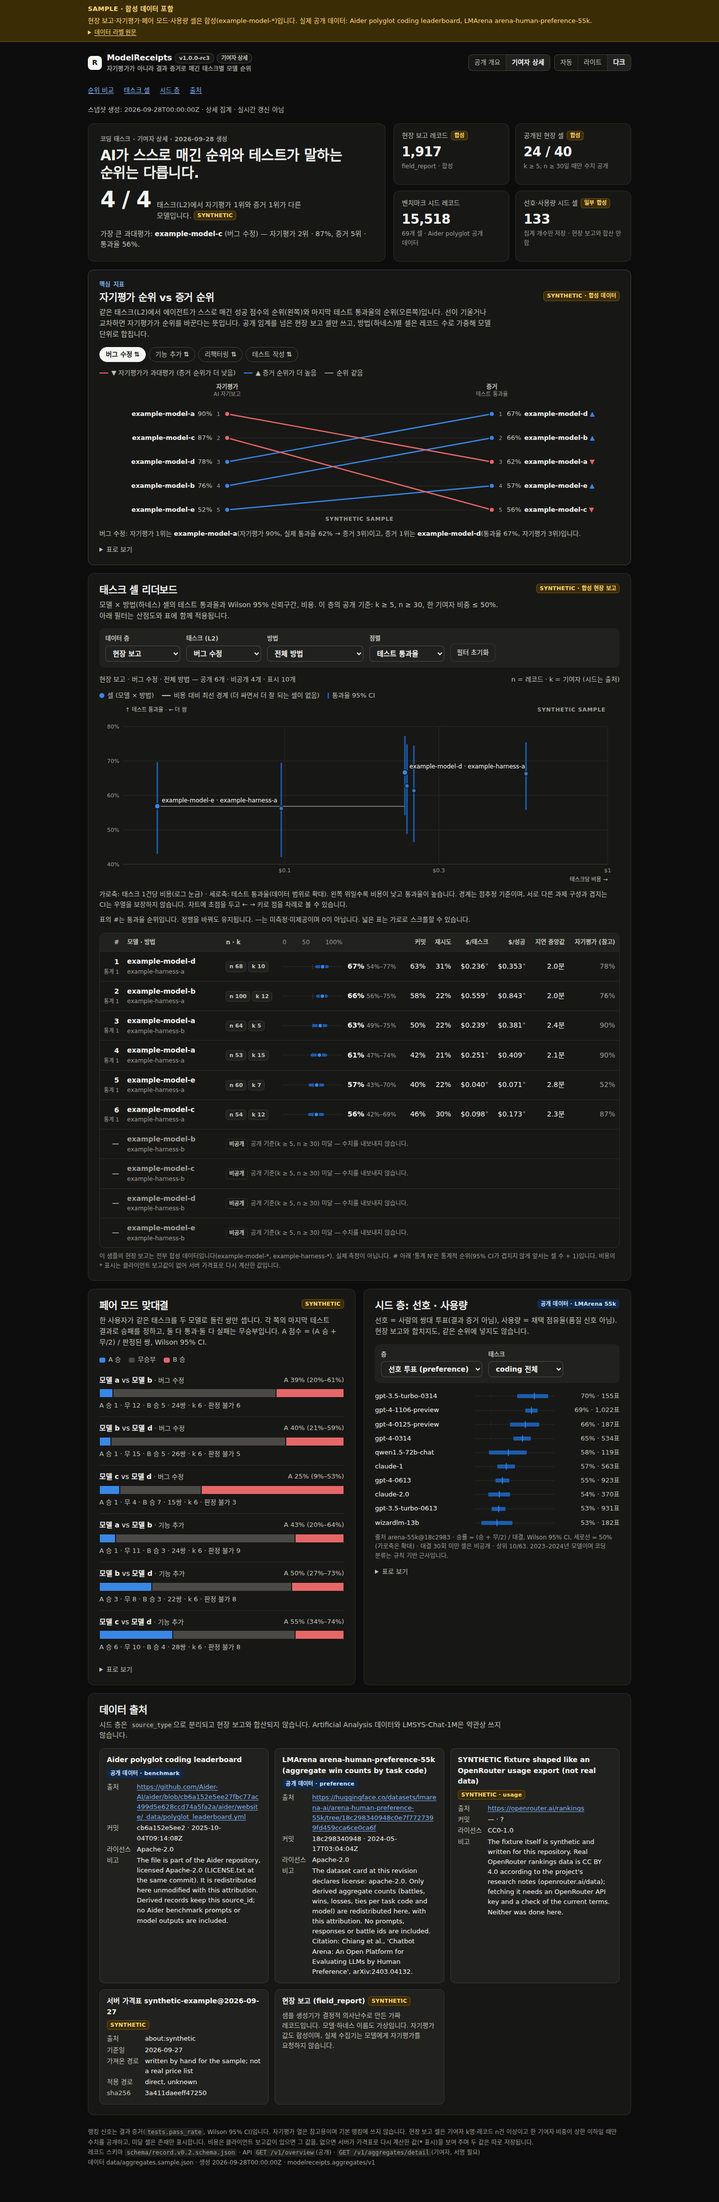
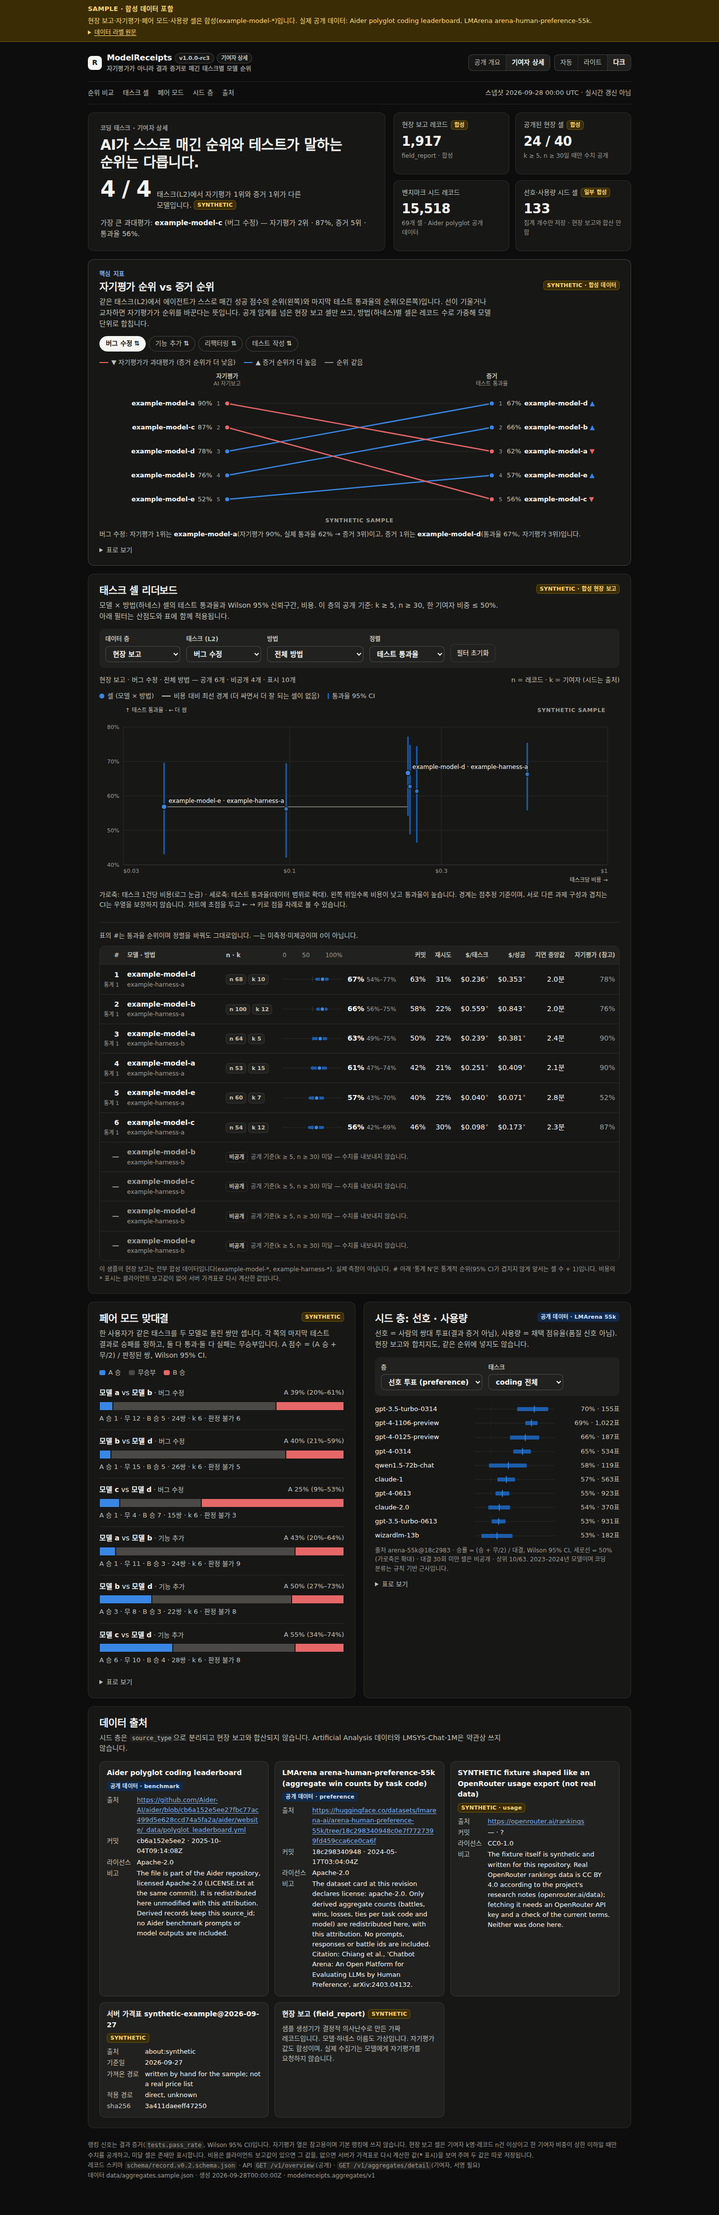
Refine dashboard for 1.0.0-rc3 (Opus stage)
Review of the Codex stage (0c31c5c) and fixes on top of it:
- merge section links and snapshot time into one toolbar row; add the
  pair-mode link and hide links to sections the current view hides;
  show the snapshot as "YYYY-MM-DD HH:MM UTC" in <time>
- neutral strip while loading (yellow stays reserved for synthetic data);
  keep the view pill hidden until data arrives
- error state: aligned action row, no self-referencing sample link,
  readable timeout / non-JSON messages
- empty aggregate: no raw "?" placeholders, "데이터 없음" layer option,
  benchmark KPI no longer claims a source when there are no cells
- scatter: snap the log cost domain to 1-3-10 ticks so both ends are
  labelled (phone gets 4 ticks); edge labels anchored inward
- slope: reserve a row for the SYNTHETIC watermark
- phone cards: two metric columns from 360px (6 -> 3 lines per card)
- table wrappers are focusable scroll regions only while they overflow
- check-ui.mjs: check / keyviews:NAME modes, hidden scrollbars, new
  assertions for each fix; refresh screenshots and add Codex -> Opus
  key-view pairs

diff --git a/dashboard/index.html b/dashboard/index.html
@@ -89,7 +89,7 @@ h1, h2, h3, p, .cap, .note, .caption { word-break: keep-all; overflow-wrap: anyw
 /* ---------- synthetic strip ---------- */
 .strip { border-bottom: 1px solid var(--syn-line); background: var(--syn-bg); color: var(--syn-ink); }
 .strip.live { background: var(--pub-bg); color: var(--pub-ink); border-color: var(--border); }
-.strip.error { background: var(--surface-2); color: var(--ink); border-color: var(--border); }
+.strip.error, .strip.pending { background: var(--surface-2); color: var(--ink); border-color: var(--border); }
 .strip .inner { max-width: 1120px; margin: 0 auto; padding: 8px 16px; display: flex; flex-wrap: wrap; gap: 4px 12px; align-items: baseline; font-size: var(--fs-sm); }
 .strip b { font-weight: 700; letter-spacing: .02em; }
 .strip details { font-size: var(--fs-xs); }
@@ -281,11 +281,18 @@ tr.locked td { color: var(--muted); }
   .card, .hero-main, .kpi { box-shadow: none; break-inside: avoid; }
 }
 /* rc3: readable narrow layouts and explicit navigation/state */
-.section-nav { display:flex; flex-wrap:wrap; gap:8px 20px; padding:14px 0 0; }
-.section-nav a { font-size:13px; padding:6px 0; }
+/* Opus: section links and snapshot time share one quiet toolbar row under the header */
+.toolbar { display:flex; flex-wrap:wrap; align-items:center; justify-content:space-between; gap:6px 16px; margin-top:12px; padding:6px 0; border-top:1px solid var(--border); border-bottom:1px solid var(--border); }
+.section-nav { display:flex; flex-wrap:wrap; gap:2px; margin:0 -8px; }
+.section-nav a { font-size:var(--fs-sm); color:var(--ink-2); text-decoration:none; padding:6px 8px; border-radius:6px; }
+.section-nav a:hover { color:var(--ink); background:var(--surface-2); }
 section[id] { scroll-margin-top:16px; }
-.meta-line, .results-line { color:var(--ink-2); font-size:13px; }
+.meta-line, .results-line { color:var(--ink-2); font-size:var(--fs-sm); margin:0; }
+.meta-line time { font-variant-numeric:tabular-nums; }
 .results-line { display:flex; flex-wrap:wrap; gap:8px 16px; justify-content:space-between; margin:12px 0; }
+.error-actions { display:flex; flex-wrap:wrap; align-items:center; gap:8px 16px; margin:4px 0 12px; }
+.error-actions .more { margin:0; }
+.board-intro { margin-top:24px; padding-top:16px; border-top:1px solid var(--grid); }
 .filters { padding:12px; background:var(--surface-2); border-radius:10px; }
 .filters .more { margin:0; min-height:36px; }
 .loading-bars { display:grid; grid-template-columns:2fr 1fr 1fr; gap:12px; margin-top:20px; }
@@ -311,11 +318,18 @@ section[id] { scroll-margin-top:16px; }
   .tip { min-width:0; max-width:min(280px,100%); }
   .loading-bars { grid-template-columns:1fr; }
 }
+@media (min-width:360px) and (max-width:640px) {
+  #board tr { grid-template-columns:24px minmax(0,1fr) minmax(0,1fr); column-gap:16px; }
+  #board td.model, #board td.nk, #board td.ci, #board td.lockrow { grid-column:2 / -1; }
+  #board td.opt:nth-child(odd) { grid-column:2; }
+  #board td.opt:nth-child(even) { grid-column:3; }
+}
+@media print { .toolbar { display:none; } }
 </style>
 </head>
 <body>
 <a class="skip" href="#main">본문으로 건너뛰기</a>
-<div class="strip" id="strip" role="note" aria-live="polite">
+<div class="strip pending" id="strip" role="note" aria-live="polite">
   <div class="inner"><b id="strip-title">데이터를 불러오는 중…</b><span id="strip-text"></span>
     <details id="strip-more" hidden><summary>데이터 라벨 원문</summary><p id="strip-label"></p></details>
   </div>
@@ -325,7 +339,7 @@ section[id] { scroll-margin-top:16px; }
     <div class="brand">
       <div class="logo" aria-hidden="true">R</div>
       <div>
-        <div class="brand-name">ModelReceipts <span class="pill">v1.0.0-rc3</span> <span class="pill" id="view-pill"></span></div>
+        <div class="brand-name">ModelReceipts <span class="pill">v1.0.0-rc3</span> <span class="pill" id="view-pill" hidden></span></div>
         <div class="eyebrow">자기평가가 아니라 결과 증거로 매긴 태스크별 모델 순위</div>
       </div>
     </div>
@@ -352,17 +366,19 @@ section[id] { scroll-margin-top:16px; }
   <section class="card" id="load-error" role="alert" hidden>
     <h2>집계 데이터를 불러오지 못했습니다</h2>
     <p class="sub" id="load-error-msg"></p>
-    <button type="button" class="more" id="retry-load">다시 불러오기</button> <a href="?view=detail">샘플 보기</a>
+    <div class="error-actions"><button type="button" class="more" id="retry-load">다시 불러오기</button><a id="error-sample" href="?view=detail">합성 샘플로 보기</a></div>
     <details><summary>로컬 실행 안내</summary><p class="sub">브라우저는 <code>file://</code>에서 JSON을 읽지 못합니다. 저장소 루트에서
       <code>PYTHONPATH=server python3 -m modelreceipts_server serve</code> 후
       <code>http://127.0.0.1:8787/dashboard/</code>(샘플) 또는 <code>http://127.0.0.1:8787/</code>(서버 집계)를 여세요.</p></details>
   </section>
 
   <div id="content" hidden>
-  <nav class="section-nav" aria-label="대시보드 섹션">
-    <a href="#cmp-card">순위 비교</a><a href="#cells-card">태스크 셀</a><a href="#seed-card">시드 층</a><a href="#sources-card">출처</a>
-  </nav>
-  <p class="meta-line" id="snapshot-meta"></p>
+  <div class="toolbar">
+    <nav class="section-nav" aria-label="대시보드 섹션">
+      <a href="#cmp-card">순위 비교</a><a href="#cells-card">태스크 셀</a><a href="#pair-card">페어 모드</a><a href="#seed-card">시드 층</a><a href="#sources-card">출처</a>
+    </nav>
+    <p class="meta-line" id="snapshot-meta"></p>
+  </div>
   <!-- hero -->
   <section class="hero" aria-labelledby="hero-title">
     <div class="hero-main">
@@ -449,9 +465,9 @@ section[id] { scroll-margin-top:16px; }
     <p class="sr-only" id="scatter-live" aria-live="polite"></p>
     <p class="empty" id="scatter-empty" hidden></p>
 
-    <p class="caption">표의 #는 통과율 순위입니다. 정렬을 바꿔도 유지됩니다. —는 미측정·미제공이며 0이 아닙니다. 넓은 표는 가로로 스크롤할 수 있습니다.</p>
+    <p class="caption board-intro">표의 #는 통과율 순위이며 정렬을 바꿔도 그대로입니다. —는 미측정·미제공이며 0이 아닙니다.</p>
     <div class="empty" id="board-empty" hidden><b id="board-empty-title">조건에 맞는 셀이 없습니다.</b><p id="board-empty-help">태스크나 방법을 전체로 바꾸세요. 공개 기준 미달 셀은 수치 없이 표시됩니다.</p><a id="empty-sample" href="?view=detail" hidden>합성 샘플 둘러보기</a><button type="button" class="more" id="empty-reset">필터 초기화</button></div>
-    <div class="table-scroll" id="board-scroll" style="margin-top:16px">
+    <div class="table-scroll" id="board-scroll" style="margin-top:10px">
       <table id="board"><caption class="sr-only">태스크 셀 리더보드</caption><thead><tr>
         <th scope="col" class="num" title="순위 · 통계적 순위(CI가 겹치지 않게 앞서는 셀 수 + 1)">#</th>
         <th scope="col">모델 · 방법</th>
@@ -555,6 +571,7 @@ section[id] { scroll-margin-top:16px; }
   const usd = v => v == null ? "—" : "$" + (v < 0.01 ? v.toFixed(4) : v < 1 ? v.toFixed(3) : v.toFixed(2));
   const secs = ms => ms == null ? "—" : (ms >= 60000 ? (ms / 60000).toFixed(1) + "분" : (ms / 1000).toFixed(0) + "초");
   const num = v => v == null ? "—" : Number(v).toLocaleString("ko-KR");
+  const utc = iso => { const d = new Date(iso); return isNaN(d) ? null : d.toISOString().slice(0, 16).replace("T", " ") + " UTC"; };
   const el = (tag, props = {}, text) => { const e = document.createElement(tag); Object.assign(e, props); if (text != null) e.textContent = text; return e; };
   const SVGNS = "http://www.w3.org/2000/svg";
   const svgEl = (tag, attrs = {}, text) => { const e = document.createElementNS(SVGNS, tag); for (const k in attrs) e.setAttribute(k, attrs[k]); if (text != null) e.textContent = text; return e; };
@@ -590,6 +607,8 @@ section[id] { scroll-margin-top:16px; }
     if (a.dataset.view === wantView) a.setAttribute("aria-current", "page");
   });
   document.getElementById("retry-load").addEventListener("click", () => location.reload());
+  // the sample link is only a way out when the failing request was not the sample itself
+  document.getElementById("error-sample").hidden = !params.get("data") && wantView === "detail";
   const controller = new AbortController();
   const loadTimeout = setTimeout(() => controller.abort(), 15000);
   fetch(dataUrl, { cache: "no-store", signal: controller.signal })
@@ -600,7 +619,8 @@ section[id] { scroll-margin-top:16px; }
       document.getElementById("strip").className = "strip error";
       document.getElementById("strip-title").textContent = "불러오기 실패";
       document.getElementById("strip-text").textContent = "아래 안내를 보세요.";
-      document.getElementById("load-error-msg").textContent = `${dataUrl} → ${err.message}`;
+      const why = err.name === "AbortError" ? "15초 안에 응답이 없어 요청을 멈췄습니다" : err instanceof SyntaxError ? "응답이 JSON이 아닙니다" : err.message;
+      document.getElementById("load-error-msg").textContent = `${dataUrl} → ${why}`;
       document.getElementById("load-error").hidden = false;
     }).finally(() => {
       clearTimeout(loadTimeout);
@@ -616,15 +636,16 @@ section[id] { scroll-margin-top:16px; }
     const synthSources = new Set(ds.synthetic_sources || []);
     const isSynthSource = id => synthSources.has(id) || /synthetic/i.test(id || "");
     const sve = new Map((agg.self_vs_evidence || []).map(t => [t.task, t.models]));
-    const thText = st => { const t = th[st]; return t ? `k ≥ ${t.min_contributors}, n ≥ ${t.min_records}` : "?"; };
-    document.getElementById("view-pill").textContent = isOverview ? "공개 개요" : agg.view === "detail" ? "기여자 상세" : "집계";
+    const thText = st => { const t = th[st]; return t ? `k ≥ ${t.min_contributors}, n ≥ ${t.min_records}` : "정보 없음"; };
+    const viewPill = document.getElementById("view-pill");
+    viewPill.textContent = isOverview ? "공개 개요" : agg.view === "detail" ? "기여자 상세" : "집계";
+    viewPill.hidden = false;
     document.getElementById("content").hidden = false;
 
-    document.getElementById("snapshot-meta").textContent = `스냅샷 생성: ${agg.generated_at || "제공되지 않음"} · ${isOverview ? "공개 개요" : "상세 집계"} · 실시간 갱신 아님`;
-    document.querySelectorAll(".table-scroll").forEach(box => {
-      box.tabIndex = 0; box.setAttribute("role", "region");
-      box.setAttribute("aria-label", `${box.querySelector("caption")?.textContent || "데이터 표"} · 가로 스크롤`);
-    });
+    const meta = document.getElementById("snapshot-meta"), when = utc(agg.generated_at);
+    meta.replaceChildren(document.createTextNode("스냅샷 "));
+    if (when) meta.append(el("time", { dateTime: agg.generated_at }, when)); else meta.append(document.createTextNode("생성 시각 없음"));
+    meta.append(document.createTextNode(" · 실시간 갱신 아님"));
     // ---------- provenance strip (always visible) ----------
     const strip = document.getElementById("strip");
     const realSeeds = (agg.sources || []).filter(s => !isSynthSource(s.source_id)).map(s => s.name.replace(/\s*\(.*\)$/, ""));
@@ -667,8 +688,7 @@ section[id] { scroll-margin-top:16px; }
     // ---------- hero ----------
     const totals = (agg.totals || {}).records_by_source_type || {};
     const seedCellTotal = Object.values((agg.totals || {}).seed_cells_by_source_type || {}).reduce((a, b) => a + b, 0);
-    const gen = (agg.generated_at || "").slice(0, 10);
-    document.getElementById("hero-eyebrow").textContent = `코딩 태스크 · ${isOverview ? "공개 개요" : "기여자 상세"}${gen ? " · " + gen + " 생성" : ""}`;
+    document.getElementById("hero-eyebrow").textContent = `코딩 태스크 · ${isOverview ? "공개 개요" : "기여자 상세"}`;
     const heroBig = document.getElementById("hero-big"), heroCap = document.getElementById("hero-cap"), heroIns = document.getElementById("hero-insight");
     if (cmpL2s.length) {
       document.getElementById("hero-title").textContent = "AI가 스스로 매긴 순위와 테스트가 말하는 순위는 다릅니다.";
@@ -688,12 +708,12 @@ section[id] { scroll-margin-top:16px; }
       heroBig.textContent = `${pubField}`;
       heroCap.replaceChildren(document.createTextNode(isOverview ? "개의 현장 보고 셀(L1 × 모델, 통과율 점추정)이 공개 기준을 넘었습니다. " : "개의 현장 보고 셀이 공개 기준을 넘었습니다. "));
       if (synthetic) heroCap.append(el("span", { className: "tag syn" }, "SYNTHETIC"));
-      heroIns.textContent = isOverview ? "자기평가 비교, 신뢰구간, 비용, 페어 모드는 기여자 상세 보기에서 열립니다." : `공개 기준: ${thText("field_report")}.`;
+      heroIns.textContent = isOverview ? "자기평가 비교, 신뢰구간, 비용, 페어 모드는 기여자 상세 보기에서 열립니다." : th.field_report ? `공개 기준: ${thText("field_report")}.` : "이 집계에는 공개 기준 정보가 없습니다.";
     }
     const kpis = [
       ["현장 보고 레코드", num(totals.field_report || 0), synthetic ? "field_report · 합성" : "field_report만 사용자 증거로 셈", synthetic],
-      ["공개된 현장 셀", `${fieldCells.length} / ${fieldCells.length + fieldSupp.length}`, `${thText("field_report")}일 때만 수치 공개`, synthetic],
-      ["벤치마크 시드 레코드", num(totals.benchmark || 0), `${cells.filter(c => c.source_type === "benchmark").length}개 셀 · Aider polyglot 공개 데이터`, false],
+      ["공개된 현장 셀", `${fieldCells.length} / ${fieldCells.length + fieldSupp.length}`, th.field_report ? `${thText("field_report")}일 때만 수치 공개` : "공개 기준 정보 없음", synthetic],
+      ["벤치마크 시드 레코드", num(totals.benchmark || 0), totals.benchmark ? `${cells.filter(c => c.source_type === "benchmark").length}개 셀 · Aider polyglot 공개 데이터` : "적재된 벤치마크 시드 없음", false],
       ["선호·사용량 시드 셀", num(seedCellTotal), "집계 개수만 저장 · 현장 보고와 합산 안 함", (agg.sources || []).some(s => isSynthSource(s.source_id) && s.source_type === "usage")],
     ];
     const kpiEl = document.getElementById("kpis");
@@ -735,7 +755,7 @@ section[id] { scroll-margin-top:16px; }
       chipsEl.querySelectorAll(".chip").forEach(b => b.setAttribute("aria-pressed", String(b.dataset.l2 === cmpL2)));
       const rows = ranked(cmpL2);
       const W = Math.max(240, slopeWrap.clientWidth), narrow = W < 560;
-      const rowH = narrow ? 40 : 48, top = 40, H = top + rows.length * rowH + 4;
+      const rowH = narrow ? 40 : 48, top = 40, H = top + rows.length * rowH + (synthetic ? 26 : 4);
       const labelW = narrow ? Math.min(92, W * .25) : 230, xL = labelW + 26, xR = W - labelW - 26;
       const nm = m => narrow ? shortModel(m) : m;
       slope.setAttribute("viewBox", `0 0 ${W} ${H}`); slope.setAttribute("height", H);
@@ -752,7 +772,7 @@ section[id] { scroll-margin-top:16px; }
         slope.append(svgEl("text", { x: xL - 14, y: yOf(i) + 4, "text-anchor": "end", "font-size": 11, fill: muted, "aria-hidden": "true" }, `${i}`));
         slope.append(svgEl("text", { x: xR + 14, y: yOf(i) + 4, "text-anchor": "start", "font-size": 11, fill: muted, "aria-hidden": "true" }, `${i}`));
       }
-      if (synthetic) slope.append(svgEl("text", { x: W / 2, y: H - 6, "text-anchor": "middle", "font-size": 11, "font-weight": 700, fill: muted, "letter-spacing": "0.08em", "aria-hidden": "true" }, "SYNTHETIC SAMPLE"));
+      if (synthetic) slope.append(svgEl("text", { x: W / 2, y: H - 4, "text-anchor": "middle", "font-size": 11, "font-weight": 700, fill: muted, "letter-spacing": "0.08em", "aria-hidden": "true" }, "SYNTHETIC SAMPLE"));
       const order = [...rows].sort((a, b) => Math.abs(a.evRank - a.selfRank) - Math.abs(b.evRank - b.selfRank));
       const groups = [];
       for (const r of order) {
@@ -814,6 +834,7 @@ section[id] { scroll-margin-top:16px; }
     let showAll = false;
     const srcTypes = [...new Set([...cells, ...suppressed].map(c => c.source_type))];
     for (const st of ["field_report", "benchmark"].filter(s => srcTypes.includes(s))) fSrc.append(el("option", { value: st }, st === "field_report" ? "현장 보고" : "벤치마크 시드"));
+    if (!srcTypes.length) fSrc.append(el("option", { value: "" }, "데이터 없음"));
     // client-reported cost first; otherwise the server's price-table recomputation (stored separately)
     const costTask = c => { const x = c.cost_usd_per_task || {}; return x.client_mean != null ? [x.client_mean, false] : [x.server_mean ?? null, x.server_mean != null]; };
     const costSuccess = c => c.cost_usd_per_success != null ? [c.cost_usd_per_success, false] : [c.server_cost_usd_per_success ?? null, c.server_cost_usd_per_success != null];
@@ -949,7 +970,10 @@ section[id] { scroll-margin-top:16px; }
       const W = Math.max(240, scWrap.clientWidth), narrow = W < 560, H = narrow ? 300 : 360;
       const m = { l: narrow ? 40 : 48, r: narrow ? 12 : 24, t: 44, b: 40 };
       const xs = pts.map(p => p.x);
-      const lx0 = Math.floor(Math.log10(Math.min(...xs)) * 2) / 2, lx1 = Math.ceil(Math.log10(Math.max(...xs)) * 2) / 2 + (Math.max(...xs) === Math.min(...xs) ? 0.5 : 0);
+      const TICK = [1, 3], L3 = Math.log10(3);
+      const snapDown = v => { const e = Math.floor(Math.log10(v) + 1e-9); return Math.log10(v) - e >= L3 - 1e-9 ? e + L3 : e; };
+      const snapUp = v => { const e = Math.floor(Math.log10(v) - 1e-9); return Math.log10(v) - e <= L3 + 1e-9 ? e + L3 : e + 1; };
+      const lx0 = snapDown(Math.min(...xs)), lx1 = Math.max(snapUp(Math.max(...xs)), lx0 + L3);
       const X = v => m.l + (Math.log10(v) - lx0) / (lx1 - lx0 || 1) * (W - m.l - m.r);
       const lows = pts.map(p => p.c.tests.ci95 ? p.c.tests.ci95[0] : p.y), highs = pts.map(p => p.c.tests.ci95 ? p.c.tests.ci95[1] : p.y);
       const y0 = Math.max(0, Math.floor(Math.min(...lows) * 10) / 10), y1 = Math.min(1, Math.ceil(Math.max(...highs) * 10) / 10);
@@ -963,11 +987,12 @@ section[id] { scroll-margin-top:16px; }
         scatter.append(svgEl("text", { x: m.l - 8, y: Y(v) + 4, "text-anchor": "end", "font-size": 11, fill: muted }, `${Math.round(v * 100)}%`));
       }
       for (let e = Math.floor(lx0); e <= Math.floor(lx1); e++) {
-        for (const mul of narrow ? [1] : [1, 3]) {
+        for (const mul of TICK) {
           const v = mul * 10 ** e, lv = Math.log10(v);
           if (lv < lx0 - 1e-9 || lv > lx1 + 1e-9) continue;
           scatter.append(svgEl("line", { x1: X(v), x2: X(v), y1: m.t, y2: H - m.b, stroke: grid, "stroke-width": 1 }));
-          scatter.append(svgEl("text", { x: X(v), y: H - m.b + 16, "text-anchor": "middle", "font-size": 11, fill: muted }, usd(v).replace(/\.?0+$/, "")));
+          const edge = lv <= lx0 + 1e-9 ? "start" : lv >= lx1 - 1e-9 ? "end" : "middle";   // edge labels point inward, clear of the % labels
+          scatter.append(svgEl("text", { x: X(v), y: H - m.b + 16, "text-anchor": edge, "font-size": 11, fill: muted }, usd(v).replace(/\.?0+$/, "")));
         }
       }
       scatter.append(svgEl("text", { x: W - m.r, y: H - 6, "text-anchor": "end", "font-size": 11, fill: ink2 }, "태스크당 비용 →"));
@@ -1041,14 +1066,21 @@ section[id] { scroll-margin-top:16px; }
       scatter.setAttribute("aria-label", `비용 대 테스트 통과율 산점도, 셀 ${pts.length}개, 비용 대비 최선 경계 ${frontier.length}개. 경계: ${frontier.map(p => `${p.c.model} ${p.c.method || ""} ${pct(p.y)} ${usd(p.x)}`).join("; ")}`);
     }
 
-    const renderCells = () => { renderScatter(); renderBoard(); };
+    // A table wrapper is a named, focusable region only while it actually overflows sideways.
+    const syncScrollRegions = () => document.querySelectorAll(".table-scroll").forEach(box => {
+      const scrolls = box.offsetParent !== null && box.scrollWidth > box.clientWidth + 1;
+      if (scrolls) { box.tabIndex = 0; box.setAttribute("role", "region"); box.setAttribute("aria-label", `${box.querySelector("caption")?.textContent || "데이터 표"} · 가로 스크롤`); }
+      else { box.removeAttribute("tabindex"); box.removeAttribute("role"); box.removeAttribute("aria-label"); }
+    });
+    document.querySelectorAll("details.tbl").forEach(d => d.addEventListener("toggle", syncScrollRegions));
+    const renderCells = () => { renderScatter(); renderBoard(); syncScrollRegions(); };
     const resetFilters = () => { fL2.value = "all"; fM.value = "all"; fS.value = "pass"; showAll = false; renderCells(); };
     document.getElementById("reset-filters").addEventListener("click", resetFilters);
     document.getElementById("empty-reset").addEventListener("click", () => { resetFilters(); document.getElementById("reset-filters").focus(); });
     fSrc.addEventListener("change", () => { showAll = false; fillOptions(); renderCells(); });
     [fL2, fM].forEach(s => s.addEventListener("change", () => { showAll = false; renderCells(); }));
-    fS.addEventListener("change", () => { showAll = false; renderBoard(); });
-    moreBtn.addEventListener("click", () => { showAll = !showAll; renderBoard(); });
+    fS.addEventListener("change", () => { showAll = false; renderBoard(); syncScrollRegions(); });
+    moreBtn.addEventListener("click", () => { showAll = !showAll; renderBoard(); syncScrollRegions(); });
     const initialSrc = params.get("layer");
     if (initialSrc && srcTypes.includes(initialSrc)) fSrc.value = initialSrc;
     fillOptions();
@@ -1175,8 +1207,8 @@ section[id] { scroll-margin-top:16px; }
         }
       }
     }
-    sLayer.addEventListener("change", () => { fillSeedTasks(); renderSeeds(); });
-    sTask.addEventListener("change", renderSeeds);
+    sLayer.addEventListener("change", () => { fillSeedTasks(); renderSeeds(); syncScrollRegions(); });
+    sTask.addEventListener("change", () => { renderSeeds(); syncScrollRegions(); });
     if (layers.length) { fillSeedTasks(); if ([...sTask.options].some(o => o.value === "coding.*")) sTask.value = "coding.*"; }
 
     // ---------- sources ----------
@@ -1223,7 +1255,10 @@ section[id] { scroll-margin-top:16px; }
     renderPairs();
     renderSeeds();
     rerender.push(renderSlope, renderCells, renderPairs, renderSeeds);
-    let rz; window.addEventListener("resize", () => { clearTimeout(rz); rz = setTimeout(() => { renderSlope(); renderScatter(); }, 80); });
+    // section links follow what this view actually shows
+    document.querySelectorAll(".section-nav a").forEach(a => { const t = document.querySelector(a.getAttribute("href")); a.hidden = !t || t.hidden; });
+    syncScrollRegions();
+    let rz; window.addEventListener("resize", () => { clearTimeout(rz); rz = setTimeout(() => { renderSlope(); renderScatter(); syncScrollRegions(); }, 80); });
   }
 })();
 </script>
